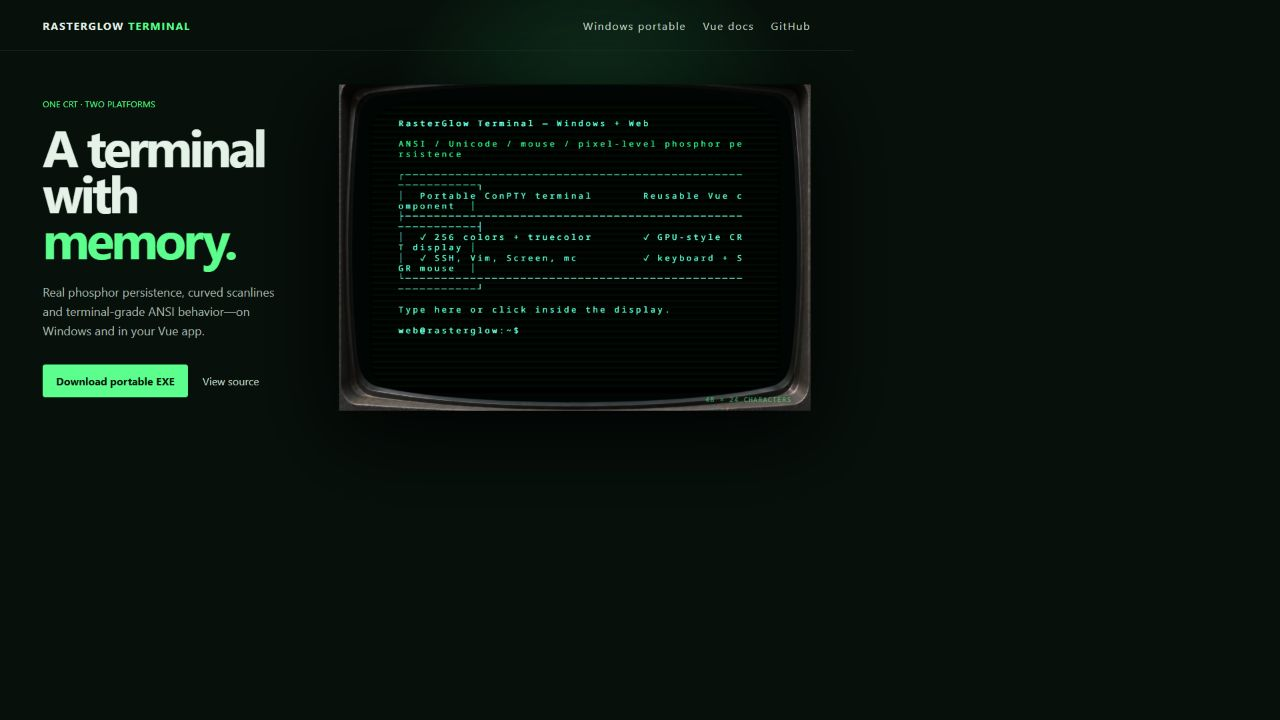
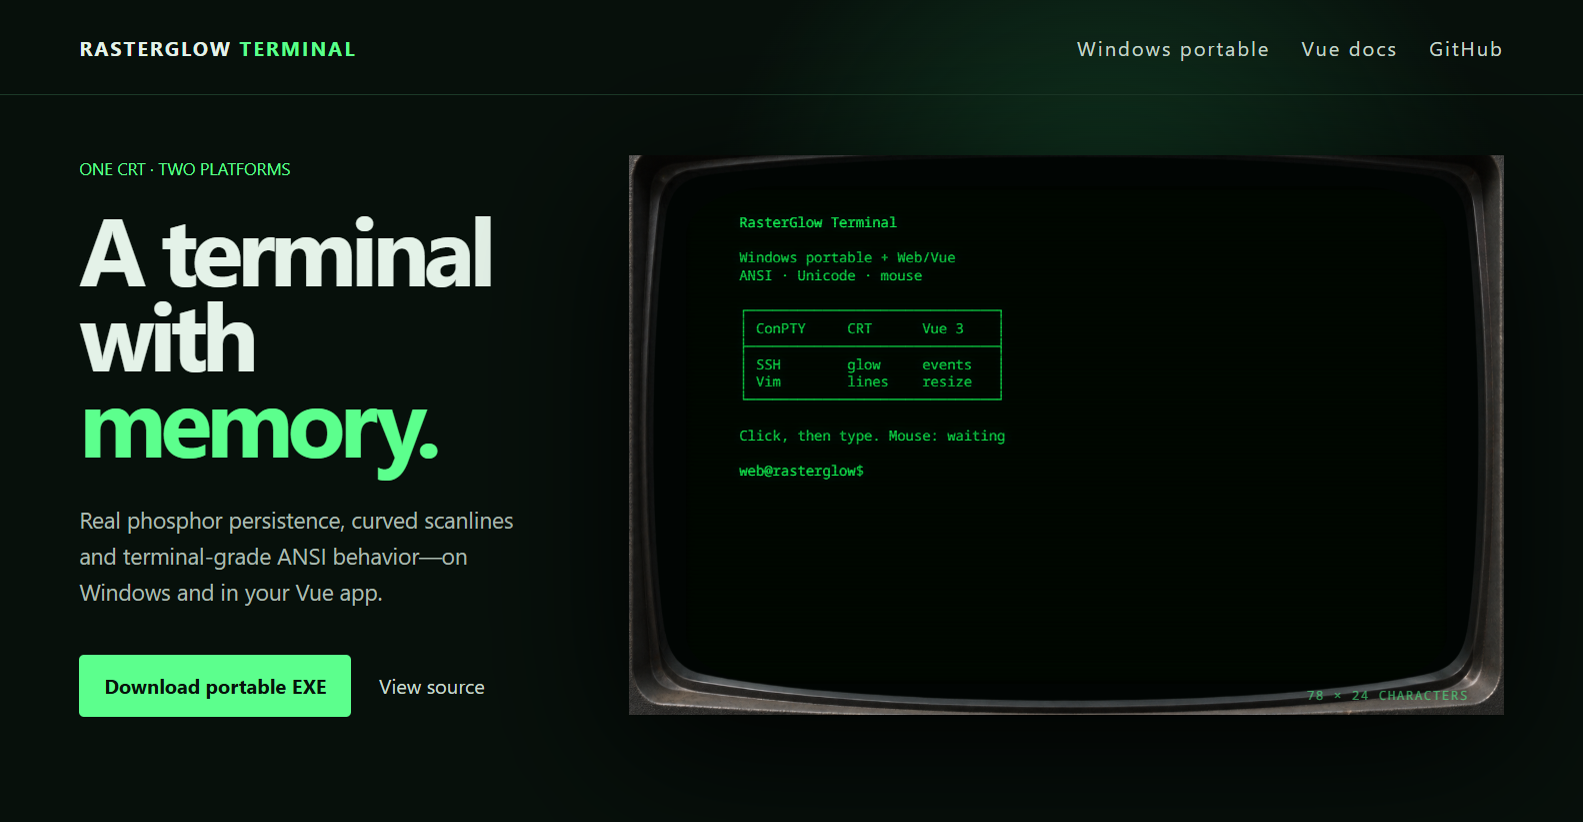
Fix web terminal geometry and interactive input

diff --git a/src/engine.ts b/src/engine.ts
@@ -8,13 +8,13 @@ function light(c:number[]){const f=(v:number)=>{const s=v/255;return s<=.04045?s
 const green=(v:number)=>`rgb(${Math.round(42*v)},${Math.round(255*v)},${Math.round(102*v)})`
 export class RasterGlowEngine {
  private term:Terminal;private canvas:HTMLCanvasElement;private glass:HTMLElement;private status:HTMLElement;private live=document.createElement('canvas');private energy=document.createElement('canvas');private settings:RasterGlowSettings;private frame=0;private observer:ResizeObserver;private last=performance.now();private cw=10;private ch=20;private fs=16;private left=40;private top=30;private blink=true
- constructor(private root:HTMLElement,private options:Options){this.settings={...defaults,...options.settings};this.canvas=root.querySelector('.rasterglow__canvas')!;this.glass=root.querySelector('.rasterglow__glass')!;this.status=root.querySelector('.rasterglow__status')!;this.term=new Terminal({cols:options.cols,rows:options.rows,scrollback:5000,allowProposedApi:true});this.term.onData(options.onData);this.term.onBinary(options.onData);root.addEventListener('keydown',this.key);root.addEventListener('paste',this.paste);this.glass.addEventListener('pointerdown',this.pointer);this.glass.addEventListener('wheel',this.wheel,{passive:false});this.observer=new ResizeObserver(this.resize);this.observer.observe(root);document.fonts.ready.then(this.resize);this.frame=requestAnimationFrame(this.animate)}
+ constructor(private root:HTMLElement,private options:Options){this.settings={...defaults,...options.settings};this.canvas=root.querySelector('.rasterglow__canvas')!;this.glass=root.querySelector('.rasterglow__glass')!;this.status=root.querySelector('.rasterglow__status')!;this.term=new Terminal({cols:options.cols,rows:options.rows,scrollback:5000,allowProposedApi:true});this.term.onData(options.onData);this.term.onBinary(options.onData);root.addEventListener('keydown',this.key);root.addEventListener('paste',this.paste);this.glass.addEventListener('pointerdown',this.pointer);this.glass.addEventListener('pointerup',this.pointerUp);this.glass.addEventListener('pointermove',this.pointerMove);this.glass.addEventListener('wheel',this.wheel,{passive:false});this.observer=new ResizeObserver(this.resize);this.observer.observe(root);document.fonts.ready.then(this.resize);this.frame=requestAnimationFrame(this.animate)}
  write(data:string){this.term.write(data.replace(/\x1b\[([0-9;]*)m/g,(s,p)=>p.split(';').includes('6')?`\x1b[${p.split(';').map((v:string)=>v==='6'?'5':v).join(';')}m`:s))} clear(){this.term.clear()} focus(){this.root.focus()} setSettings(v:Partial<RasterGlowSettings>){Object.assign(this.settings,v)} dispose(){cancelAnimationFrame(this.frame);this.observer.disconnect();this.term.dispose()}
  private resize=()=>{const d=Math.min(2,devicePixelRatio||1),w=this.glass.clientWidth,h=this.glass.clientHeight;this.canvas.width=this.live.width=this.energy.width=Math.max(1,w*d);this.canvas.height=this.live.height=this.energy.height=Math.max(1,h*d);this.left=w*.07;this.top=h*.06;this.fs=Math.max(9,Math.min(21,h*.88/this.options.rows*.76));this.ch=this.fs*1.28;const c=this.live.getContext('2d')!;c.font=`${this.fs}px RasterGlow Mono`;this.cw=c.measureText('M').width;const cols=Math.max(20,Math.floor(w*.86/this.cw)),rows=Math.max(8,Math.floor(h*.88/this.ch));this.term.resize(cols,rows);this.status.textContent=`${cols} × ${rows} CHARACTERS`;this.options.onResize({cols,rows})}
  private key=(e:KeyboardEvent)=>{if(e.ctrlKey&&!e.altKey&&!e.metaKey&&/^[a-z]$/i.test(e.key)){this.options.onData(String.fromCharCode(e.key.toLowerCase().charCodeAt(0)-96));e.preventDefault();return}const k:Record<string,string>={Enter:'\r',Backspace:'\x7f',Tab:'\t',Escape:'\x1b',ArrowUp:'\x1b[A',ArrowDown:'\x1b[B',ArrowRight:'\x1b[C',ArrowLeft:'\x1b[D',Home:'\x1b[H',End:'\x1b[F',Delete:'\x1b[3~',PageUp:'\x1b[5~',PageDown:'\x1b[6~'},v=k[e.key]||(!e.ctrlKey&&!e.metaKey&&e.key.length===1?e.key:'');if(v){this.options.onData(v);e.preventDefault()}}
  private paste=(e:ClipboardEvent)=>{const v=e.clipboardData?.getData('text');if(v){this.options.onData(v);e.preventDefault()}}
  private cell(e:MouseEvent){const r=this.glass.getBoundingClientRect();return{c:Math.max(1,Math.min(this.term.cols,Math.floor((e.clientX-r.left-this.left)/this.cw)+1)),r:Math.max(1,Math.min(this.term.rows,Math.floor((e.clientY-r.top-this.top)/this.ch)+1))}}
- private pointer=(e:PointerEvent)=>{const p=this.cell(e);this.options.onData(`\x1b[<${e.button};${p.c};${p.r}M`);this.root.focus()};private wheel=(e:WheelEvent)=>{const p=this.cell(e);this.options.onData(`\x1b[<${e.deltaY<0?64:65};${p.c};${p.r}M`);e.preventDefault()}
+ private pointer=(e:PointerEvent)=>{const p=this.cell(e);this.options.onData(`\x1b[<${e.button};${p.c};${p.r}M`);this.glass.setPointerCapture(e.pointerId);e.preventDefault();queueMicrotask(()=>this.root.focus({preventScroll:true}))};private pointerUp=(e:PointerEvent)=>{const p=this.cell(e);this.options.onData(`\x1b[<${e.button};${p.c};${p.r}m`);e.preventDefault()};private lastMove=0;private pointerMove=(e:PointerEvent)=>{if(performance.now()-this.lastMove<45)return;this.lastMove=performance.now();const p=this.cell(e);this.options.onData(`\x1b[<35;${p.c};${p.r}M`)};private wheel=(e:WheelEvent)=>{const p=this.cell(e);this.options.onData(`\x1b[<${e.deltaY<0?64:65};${p.c};${p.r}M`);this.root.focus({preventScroll:true});e.preventDefault()}
  private paint(){const d=this.live.width/Math.max(1,this.glass.clientWidth),c=this.live.getContext('2d')!,b=this.term.buffer.active;c.clearRect(0,0,this.live.width,this.live.height);c.save();c.scale(d,d);c.font=`${this.fs}px RasterGlow Mono`;c.textBaseline='top';c.fontKerning='none';for(let y=0;y<this.term.rows;y++){const line=b.getLine(b.viewportY+y);if(!line)continue;for(let x=0;x<this.term.cols;x++){const cell=line.getCell(x);if(!cell)continue;const read=(fg:boolean)=>{const val=fg?cell.getFgColor():cell.getBgColor(),isRgb=fg?cell.isFgRGB():cell.isBgRGB(),isPal=fg?cell.isFgPalette():cell.isBgPalette();return isRgb?[(val>>16)&255,(val>>8)&255,val&255]:isPal?palette(val):null};let fg=read(true)||[150,220,170],bg=read(false);if(cell.isInverse())[fg,bg]=[bg||[0,0,0],fg];if(bg){c.fillStyle=green(light(bg)*.28);c.fillRect(this.left+x*this.cw,this.top+y*this.ch,this.cw+.4,this.ch+.4)}const s=cell.getChars();if(!s||(cell.isBlink()&&!this.blink))continue;let l=light(fg);if(cell.isBold())l=Math.min(1,l*1.16);c.globalAlpha=cell.isDim()?.42:.78;c.fillStyle=green(l);c.fillText(s,this.left+x*this.cw,this.top+y*this.ch);const span=this.cw*Math.max(1,cell.getWidth());if(cell.isUnderline())c.fillRect(this.left+x*this.cw,this.top+(y+.88)*this.ch,span,1);if(cell.isOverline())c.fillRect(this.left+x*this.cw,this.top+y*this.ch,span,1);x+=Math.max(1,cell.getWidth())-1}}c.restore()}
- private animate=(now:number)=>{const dt=Math.min(.1,(now-this.last)/1000);this.last=now;this.blink=Math.floor(now/500)%2===0;this.paint();const e=this.energy.getContext('2d')!,w=this.canvas.width,h=this.canvas.height;e.globalCompositeOperation='source-over';e.fillStyle=`rgba(0,0,0,${1-Math.pow(this.settings.persistence,dt*8)})`;e.fillRect(0,0,w,h);e.globalCompositeOperation='lighter';e.globalAlpha=.9;e.drawImage(this.live,0,0);const out=this.canvas.getContext('2d')!;out.clearRect(0,0,w,h);out.save();out.filter=`brightness(${this.settings.brightness}) contrast(${this.settings.contrast}) blur(${Math.max(0,(1-this.settings.focus)*1.5)}px) drop-shadow(0 0 ${2+this.settings.glow*3}px rgba(30,255,95,${.12*this.settings.glow}))`;const n=48,sh=h/n;for(let i=0;i<n;i++){const q=i/(n-1)*.2-.1,j=(Math.random()-.5)*this.settings.flicker*.45,x=q*q*this.settings.curvature*w;out.drawImage(this.energy,0,i*sh,w,sh+1,x+j,i*sh,w-2*x,sh+1)}out.filter='none';out.globalCompositeOperation='multiply';for(let y=2;y<h;y+=4){out.fillStyle='rgba(0,0,0,.2)';out.fillRect(0,y,w,2)}out.restore();this.frame=requestAnimationFrame(this.animate)}
+ private animate=(now:number)=>{const dt=Math.min(.1,(now-this.last)/1000);this.last=now;this.blink=Math.floor(now/500)%2===0;this.paint();const e=this.energy.getContext('2d')!,w=this.canvas.width,h=this.canvas.height;e.globalCompositeOperation='source-over';e.fillStyle=`rgba(0,0,0,${1-Math.pow(this.settings.persistence,dt*8)})`;e.fillRect(0,0,w,h);e.globalCompositeOperation='lighter';e.globalAlpha=.9;e.drawImage(this.live,0,0);const out=this.canvas.getContext('2d')!;out.clearRect(0,0,w,h);out.save();out.filter=`brightness(${this.settings.brightness}) contrast(${this.settings.contrast}) blur(${Math.max(0,(1-this.settings.focus)*1.5)}px) drop-shadow(0 0 ${2+this.settings.glow*3}px rgba(30,255,95,${.12*this.settings.glow}))`;const n=Math.min(240,h),sh=h/n;for(let i=0;i<n;i++){const q=i/(n-1)*.2-.1,j=(Math.random()-.5)*this.settings.flicker*.12,x=q*q*this.settings.curvature*w;out.drawImage(this.energy,0,i*sh,w,sh+1,x+j,i*sh,w-2*x,sh+1)}out.filter='none';out.globalCompositeOperation='multiply';for(let y=2;y<h;y+=4){out.fillStyle='rgba(0,0,0,.2)';out.fillRect(0,y,w,2)}out.restore();this.frame=requestAnimationFrame(this.animate)}
 }

diff --git a/demo/App.vue b/demo/App.vue
@@ -1,3 +1,3 @@
-<script setup lang="ts">import{onMounted,ref}from'vue';import{RasterGlowTerminal}from'../src';const crt=ref<InstanceType<typeof RasterGlowTerminal>>();const text=['\x1b[1;32mRasterGlow Terminal\x1b[0m','','Windows portable + Vue/Web component','ANSI · Unicode · mouse · truecolor','','┌──────────────────────────────────────┐','│ CONPTY     WebGL CRT      Vue 3      │','├──────────────────────────────────────┤','│ ✓ SSH     ✓ afterglow    ✓ events    │','│ ✓ Vim     ✓ scanlines    ✓ resize    │','└──────────────────────────────────────┘','','Type or click inside the display.',''];onMounted(()=>crt.value?.write('\x1b[2J\x1b[H'+text.join('\r\n')+'\r\n\x1b[92mweb@rasterglow\x1b[0m$ '));function input(d:string){if(d==='\r')crt.value?.write('\r\n\x1b[33mAttach @data to your WebSocket PTY.\x1b[0m\r\n\x1b[92mweb@rasterglow\x1b[0m$ ');else if(d==='\x7f')crt.value?.write('\b \b');else if(!d.startsWith('\x1b[<'))crt.value?.write(d)}</script>
-<template><main><header><b>RASTERGLOW <i>TERMINAL</i></b><nav><a href="https://github.com/thomasliebig/rasterglow-terminal/releases/latest">Windows portable</a><a href="https://github.com/thomasliebig/rasterglow-terminal#use-in-a-vue-3-project">Vue docs</a><a href="https://github.com/thomasliebig/rasterglow-terminal">GitHub</a></nav></header><section><article><small>ONE CRT · TWO PLATFORMS</small><h1>A terminal<br>with <em>memory.</em></h1><p>Real phosphor persistence, curved scanlines and terminal-grade ANSI behavior—on Windows and in your Vue app.</p><div><a class="button" href="https://github.com/thomasliebig/rasterglow-terminal/releases/latest">Download portable EXE</a><a href="https://github.com/thomasliebig/rasterglow-terminal">View source</a></div></article><aside><RasterGlowTerminal ref="crt" :cols="92" :rows="24" @data="input" /></aside></section></main></template>
+<script setup lang="ts">import{onMounted,ref}from'vue';import{RasterGlowTerminal}from'../src';const crt=ref<InstanceType<typeof RasterGlowTerminal>>();const text=['\x1b[1;32mRasterGlow Terminal\x1b[0m','','Windows portable + Web/Vue','ANSI · Unicode · mouse','','┌──────────────────────────────┐','│ ConPTY     CRT      Vue 3    │','├──────────────────────────────┤','│ SSH        glow     events   │','│ Vim        lines    resize   │','└──────────────────────────────┘','','Click, then type. Mouse: waiting',''];onMounted(()=>crt.value?.write('\x1b[2J\x1b[H'+text.join('\r\n')+'\r\n\x1b[92mweb@rasterglow\x1b[0m$ '));function input(d:string){const m=/\x1b\[<(\d+);(\d+);(\d+)([Mm])/.exec(d);if(m){const kind=m[1]==='35'?'MOVE':m[4]==='m'?'UP':m[1]==='64'?'WHEEL ↑':m[1]==='65'?'WHEEL ↓':'CLICK';crt.value?.write(`\x1b7\x1b[14;1H\x1b[2K\x1b[96mMouse ${kind}: C${m[2]} R${m[3]}\x1b[0m\x1b8`);return}if(d==='\r')crt.value?.write('\r\n\x1b[33mConnect @data to a PTY.\x1b[0m\r\n\x1b[92mweb@rasterglow\x1b[0m$ ');else if(d==='\x7f')crt.value?.write('\b \b');else crt.value?.write(d)}</script>
+<template><main><header><b>RASTERGLOW <i>TERMINAL</i></b><nav><a href="https://github.com/thomasliebig/rasterglow-terminal/releases/latest">Windows portable</a><a href="https://github.com/thomasliebig/rasterglow-terminal#use-in-a-vue-3-project">Vue docs</a><a href="https://github.com/thomasliebig/rasterglow-terminal">GitHub</a></nav></header><section><article><small>ONE CRT · TWO PLATFORMS</small><h1>A terminal<br>with <em>memory.</em></h1><p>Real phosphor persistence, curved scanlines and terminal-grade ANSI behavior—on Windows and in your Vue app.</p><div><a class="button" href="https://github.com/thomasliebig/rasterglow-terminal/releases/latest">Download portable EXE</a><a href="https://github.com/thomasliebig/rasterglow-terminal">View source</a></div></article><aside><RasterGlowTerminal ref="crt" :cols="92" :rows="24" :settings="{ curvature: 0, flicker: .22 }" @data="input" /></aside></section></main></template>
 <style scoped>:global(*){box-sizing:border-box}:global(body){margin:0;background:#07100b;color:#e4f2e8;font-family:Inter,system-ui,sans-serif}main{min-height:100vh;background:radial-gradient(circle at 70% 30%,#123c24 0,transparent 32%),#07100b}header{height:76px;display:flex;align-items:center;justify-content:space-between;padding:0 5vw;border-bottom:1px solid #1c3928;letter-spacing:.1em}i,small,em{color:#5cff8d;font-style:normal}nav{display:flex;gap:25px}a{color:#c9dbce;text-decoration:none}section{max-width:1500px;margin:auto;padding:7vh 5vw;display:grid;grid-template-columns:.7fr 1.3fr;align-items:center;gap:5vw}h1{font-size:clamp(50px,6vw,96px);line-height:.9;margin:20px 0 32px;letter-spacing:-.06em}p{color:#aabbb0;font-size:18px;line-height:1.6}article div{display:flex;gap:22px;align-items:center;margin-top:36px}.button{background:#5cff8d;color:#06140b;padding:14px 20px;border-radius:4px;font-weight:750}aside{height:min(68vh,680px);filter:drop-shadow(0 30px 60px #000)}@media(max-width:900px){nav a:not(:last-child){display:none}section{grid-template-columns:1fr;padding-top:40px}aside{height:55vh;min-height:440px}}</style>
